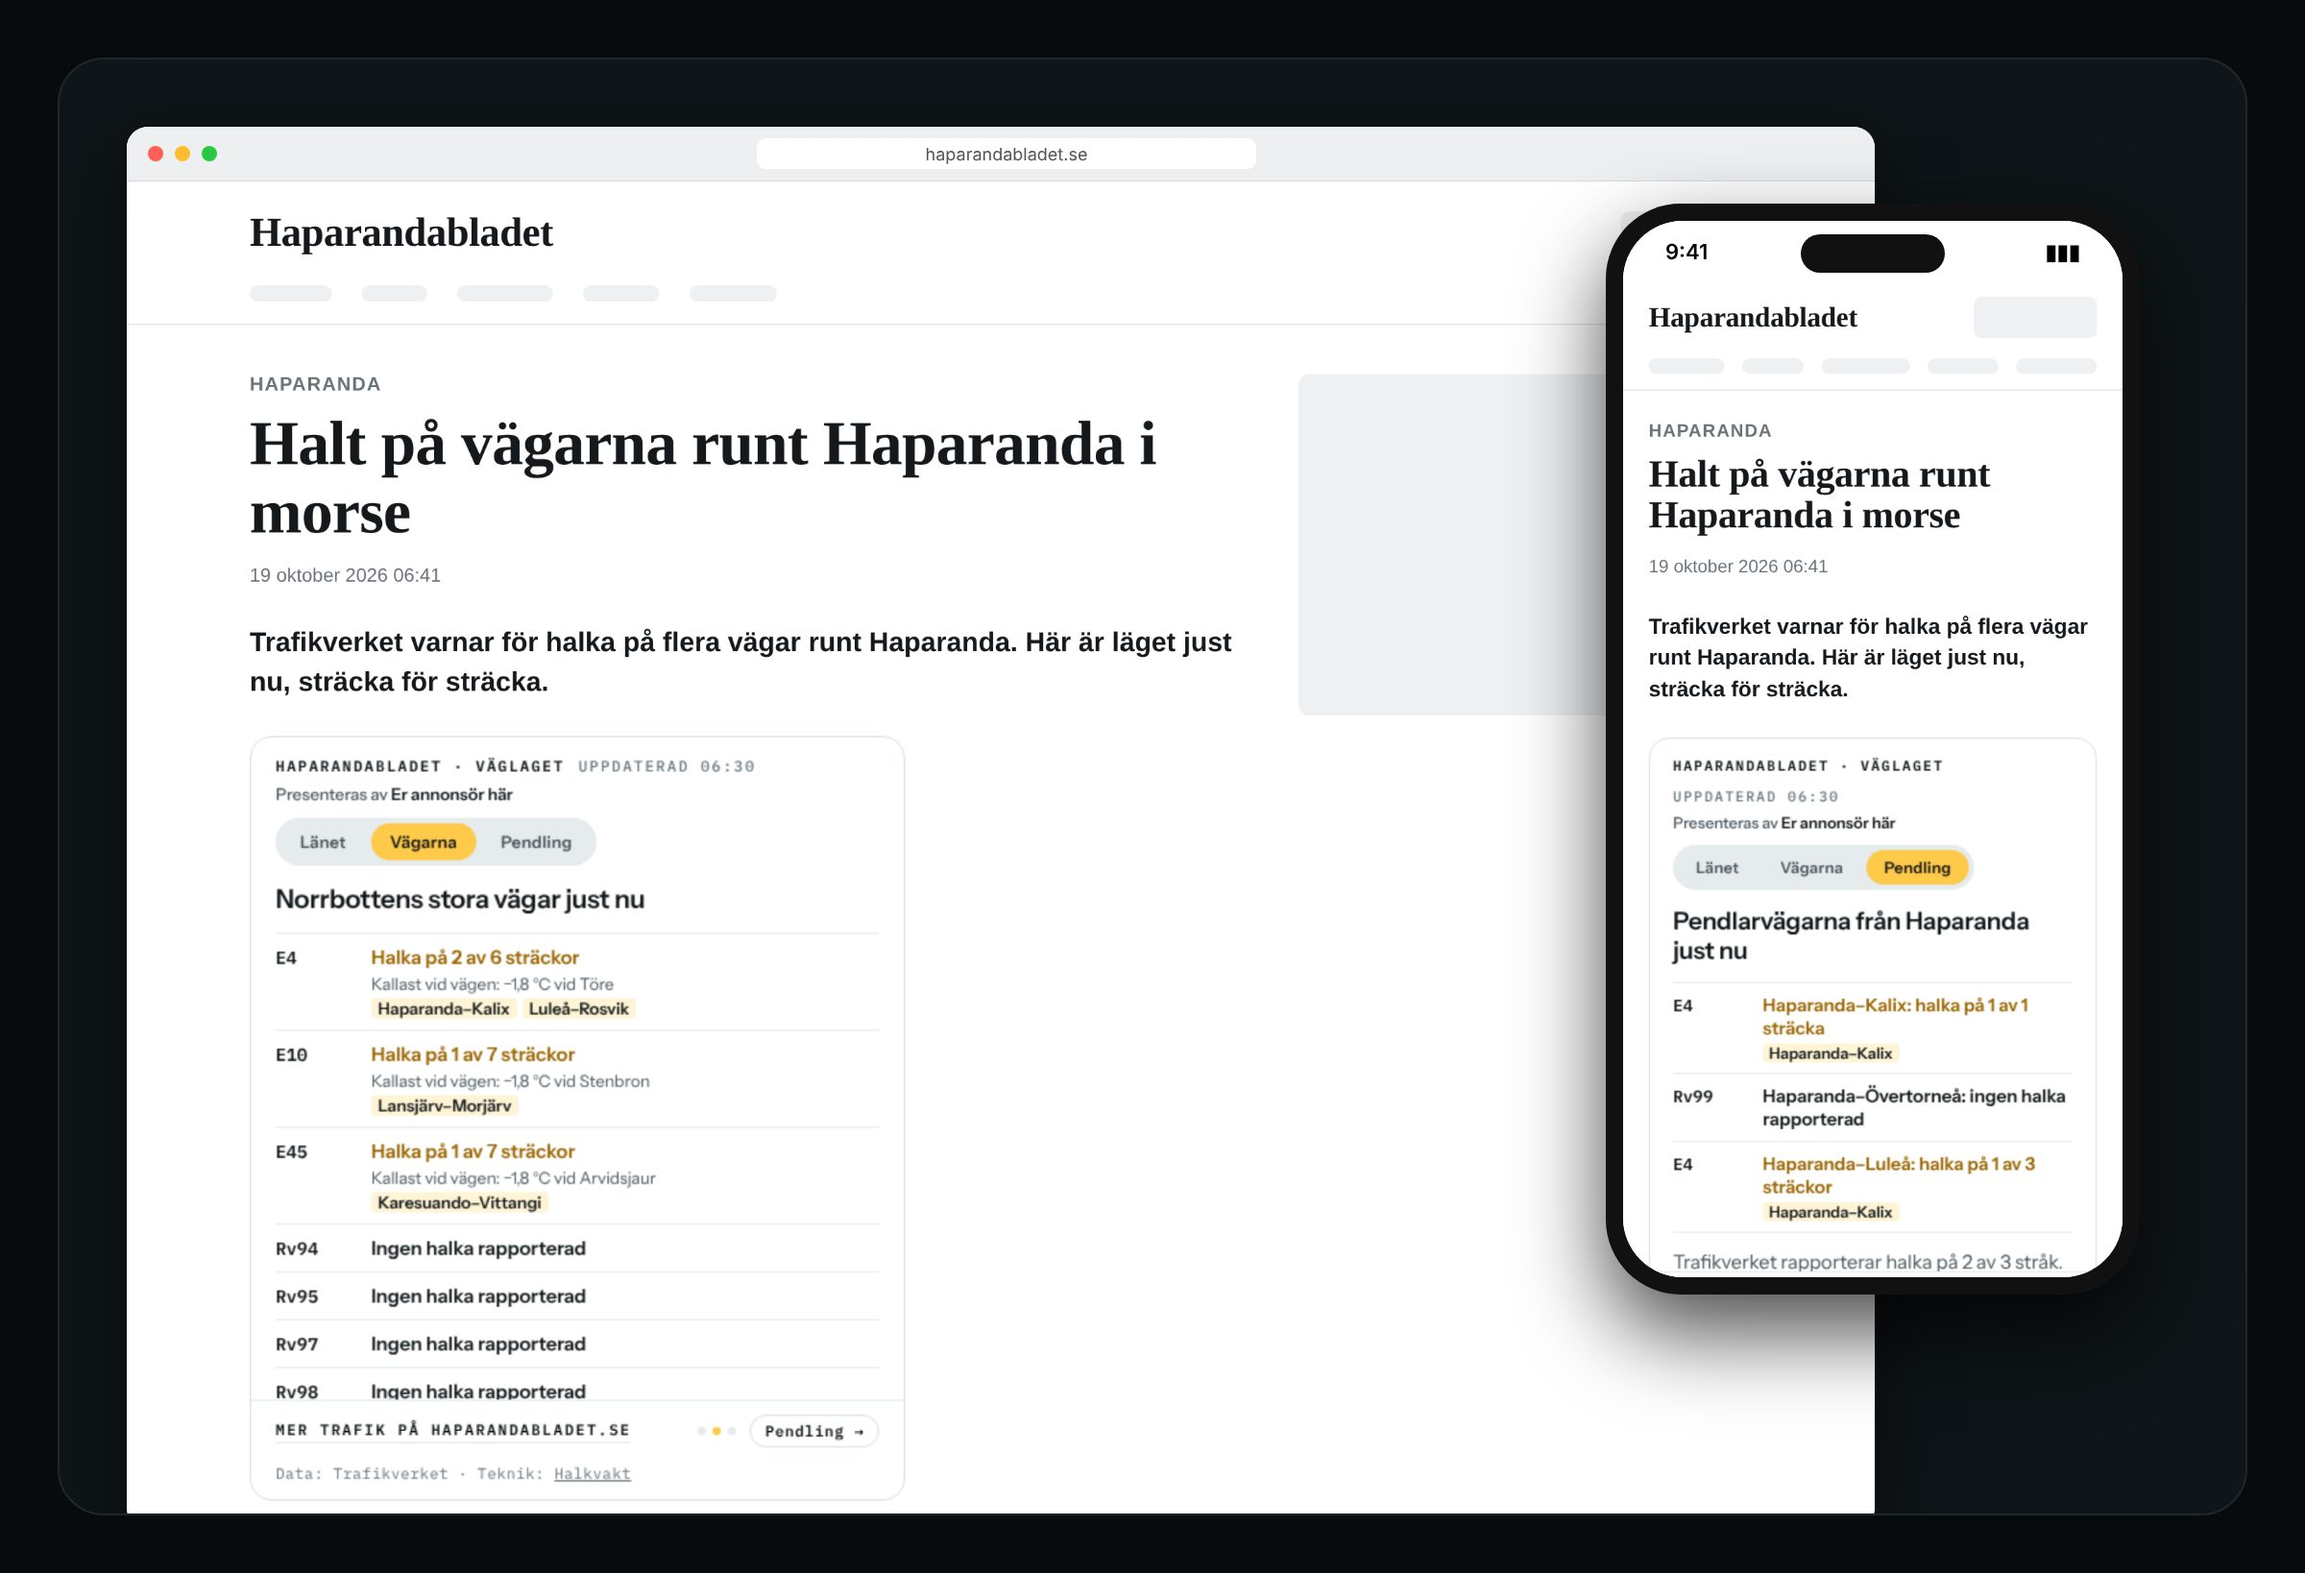
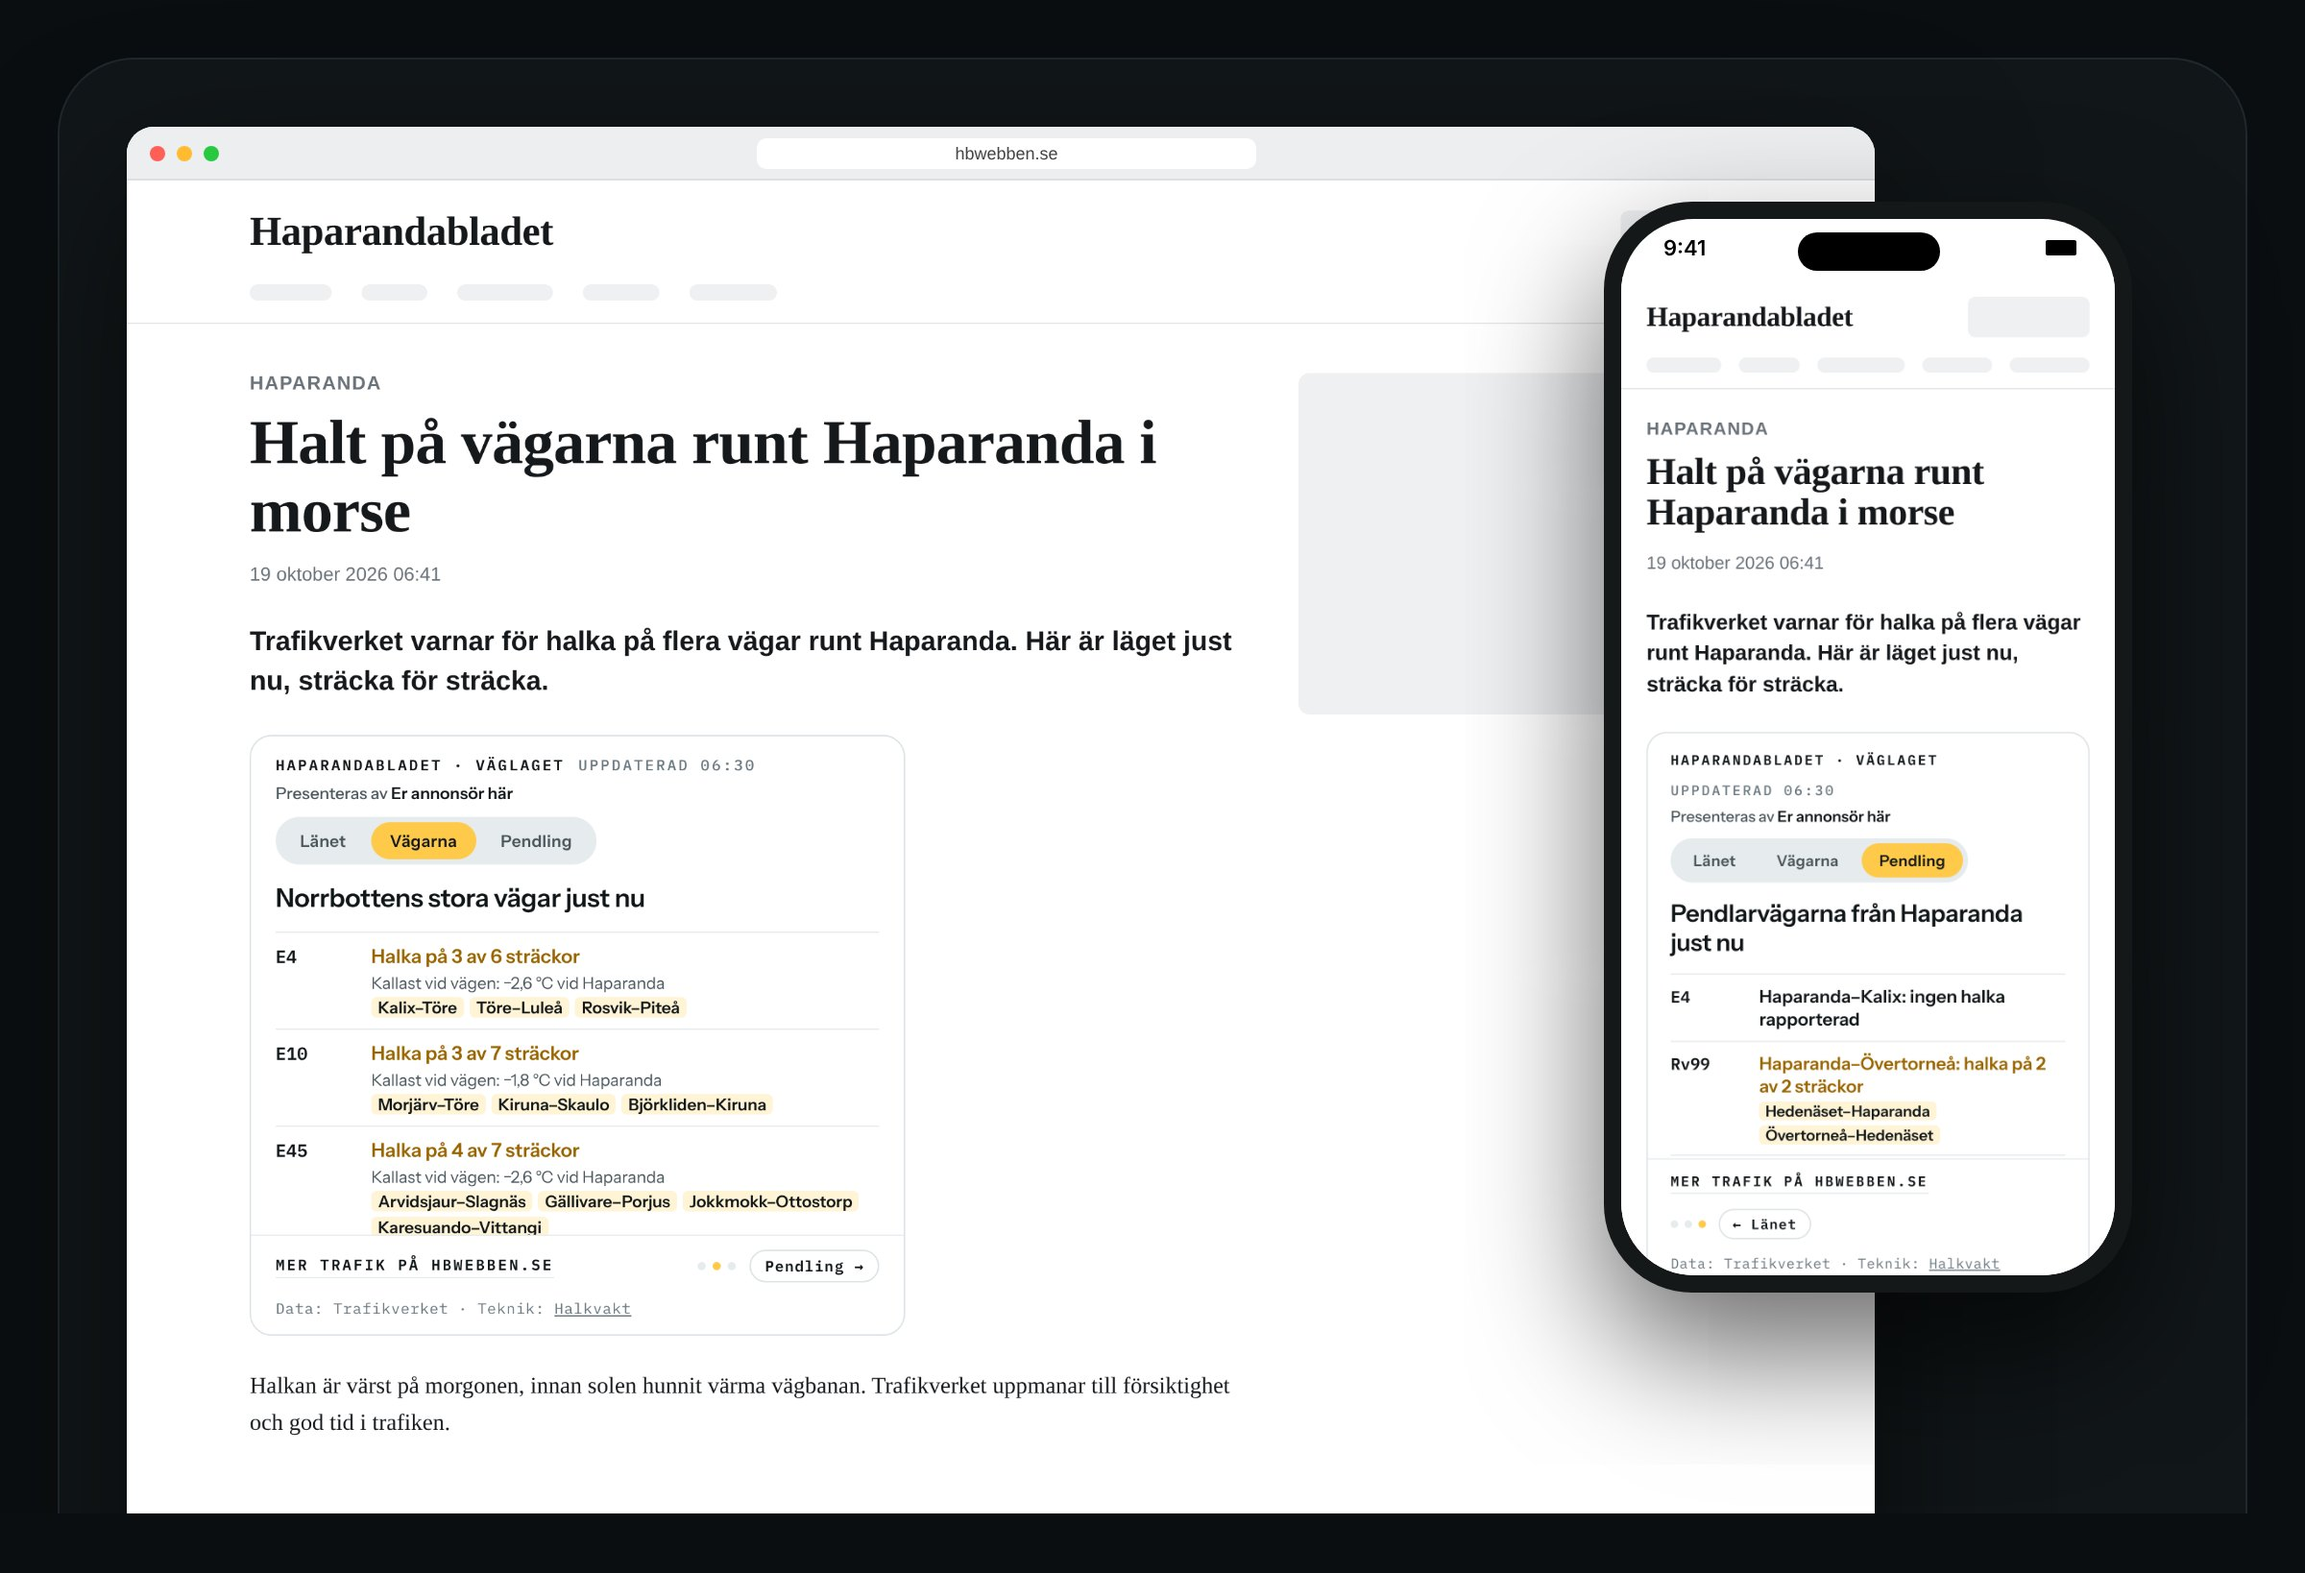
Haparandabladet: rutan länkar till hbwebben.se, tidningens nyhetssajt (haparandabladet.se är prenumerationssidan)
Claude-Session: https://claude.ai/code/session_01NnkxirYreTP8z22eyJy1Rt

diff --git a/haparandabladet.html b/haparandabladet.html
@@ -102,11 +102,11 @@ footer{padding-block:40px 64px;border-top:1px solid var(--kant);color:var(--damp
       <p class="etikett"><svg viewBox="3 3 94 83" aria-hidden="true"><path fill-rule="evenodd" fill="#FFC94A" d="M55.196 6 L96.196 77 A6 6 0 0 1 91 86 L9 86 A6 6 0 0 1 3.804 77 L44.804 6 A6 6 0 0 1 55.196 6 Z M46.4 32 L53.6 32 L52 58 L48 58 Z M45.6 68 A4.4 4.4 0 1 0 54.4 68 A4.4 4.4 0 1 0 45.6 68 Z"/></svg><b>Halkvakt</b>Förslag till Haparandabladet</p>
       <h1 style="--ord:15">Väglaget i Norrbotten, <span class="gul">live</span> hos Haparandabladet</h1>
       <p class="lead">En ruta för artiklar och liveblogg som visar läget på vägarna just nu: i Norrbotten, på de stora vägarna och på pendlarvägarna från Haparanda. Den läggs in med en rad kod och uppdaterar sig själv dygnet runt.</p>
-      <p class="lead" style="font-size:17px"><b style="color:var(--text)">Rutan är er.</b> Den bär Haparandabladets namn och länkar till haparandabladet.se. Raden överst är en annonsplats ni kan sälja till era annonsörer, och intäkten är er.</p>
+      <p class="lead" style="font-size:17px"><b style="color:var(--text)">Rutan är er.</b> Den bär Haparandabladets namn och länkar till hbwebben.se. Raden överst är en annonsplats ni kan sälja till era annonsörer, och intäkten är er.</p>
       <p class="lead" style="font-size:17px">Rutan bredvid är den riktiga, med dagens siffror. Svep i sidled eller tryck på flikarna.</p>
     </div>
     <div class="live">
-      <iframe src="ruta.html?v=5&amp;lan=norrbotten&amp;tema=ljus&amp;strak=haparanda&amp;namn=Haparandabladet&amp;lank=https://www.haparandabladet.se/&amp;lanktext=Mer%20trafik%20p%C3%A5%20haparandabladet.se" title="Väglaget i Norrbotten just nu" loading="eager"></iframe>
+      <iframe src="ruta.html?v=5&amp;lan=norrbotten&amp;tema=ljus&amp;strak=haparanda&amp;namn=Haparandabladet&amp;lank=https://hbwebben.se/&amp;lanktext=Mer%20trafik%20p%C3%A5%20hbwebben.se" title="Väglaget i Norrbotten just nu" loading="eager"></iframe>
       <p class="not">Live från Trafikverkets öppna data</p>
     </div>
   </div>
@@ -175,7 +175,7 @@ footer{padding-block:40px 64px;border-top:1px solid var(--kant);color:var(--damp
       <p class="not" style="margin-top:-4px">Bara en länk? Den här räcker. Rekommenderad höjd 440 px.</p>
       <div class="kod">
         <button type="button" id="kopiera">Kopiera</button>
-<pre id="koden"><span class="k">&lt;iframe</span> src="https://halkvakt.se/ruta.html?lan=norrbotten&amp;tema=ljus&amp;strak=haparanda&amp;namn=Haparandabladet&amp;lank=https://www.haparandabladet.se/"
+<pre id="koden"><span class="k">&lt;iframe</span> src="https://halkvakt.se/ruta.html?lan=norrbotten&amp;tema=ljus&amp;strak=haparanda&amp;namn=Haparandabladet&amp;lank=https://hbwebben.se/"
   width="100%" height="440"
   style="border:0;max-width:480px"
   title="Väglaget i Norrbotten just nu" loading="lazy"<span class="k">&gt;&lt;/iframe&gt;</span>
@@ -210,7 +210,7 @@ footer{padding-block:40px 64px;border-top:1px solid var(--kant);color:var(--damp
       </ul>
     </div>
     <div class="live">
-      <iframe src="ruta.html?v=5&amp;lan=norrbotten&amp;tema=ljus&amp;strak=haparanda&amp;namn=Haparandabladet&amp;lank=https://www.haparandabladet.se/&amp;lanktext=Mer%20trafik%20p%C3%A5%20haparandabladet.se&amp;sponsor=Er%20annons%C3%B6r%20h%C3%A4r" title="Haparandabladets väglagsruta med sponsorrad" loading="lazy"></iframe>
+      <iframe src="ruta.html?v=5&amp;lan=norrbotten&amp;tema=ljus&amp;strak=haparanda&amp;namn=Haparandabladet&amp;lank=https://hbwebben.se/&amp;lanktext=Mer%20trafik%20p%C3%A5%20hbwebben.se&amp;sponsor=Er%20annons%C3%B6r%20h%C3%A4r" title="Haparandabladets väglagsruta med sponsorrad" loading="lazy"></iframe>
       <p class="not">Live, med sponsorraden ifylld som exempel.</p>
     </div>
   </div>

diff --git a/ruta/haparandabladet/index.html b/ruta/haparandabladet/index.html
@@ -37,7 +37,7 @@
 </style>
 </head>
 <body>
-<iframe id="ruta" src="https://halkvakt.se/ruta.html?v=6&amp;lan=norrbotten&amp;strak=haparanda&amp;tema=ljus&amp;namn=Haparandabladet&amp;lank=https://www.haparandabladet.se/&amp;lanktext=Mer%20trafik%20p%C3%A5%20haparandabladet.se" title="Väglaget i Norrbotten just nu" loading="eager"></iframe>
+<iframe id="ruta" src="https://halkvakt.se/ruta.html?v=6&amp;lan=norrbotten&amp;strak=haparanda&amp;tema=ljus&amp;namn=Haparandabladet&amp;lank=https://hbwebben.se/&amp;lanktext=Mer%20trafik%20p%C3%A5%20hbwebben.se" title="Väglaget i Norrbotten just nu" loading="eager"></iframe>
 <script>
   // Tillval som går vidare till rutan: ?flik=lan|vagar|pendling, ?tema=auto|mork, ?sponsor=…, ?sponsorlank=…
   (function () {
